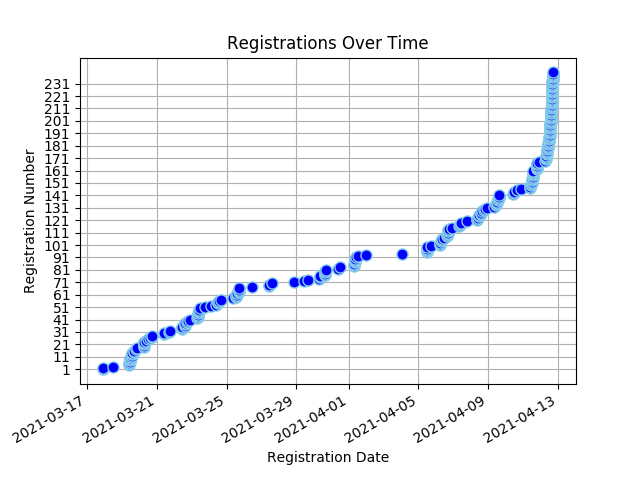
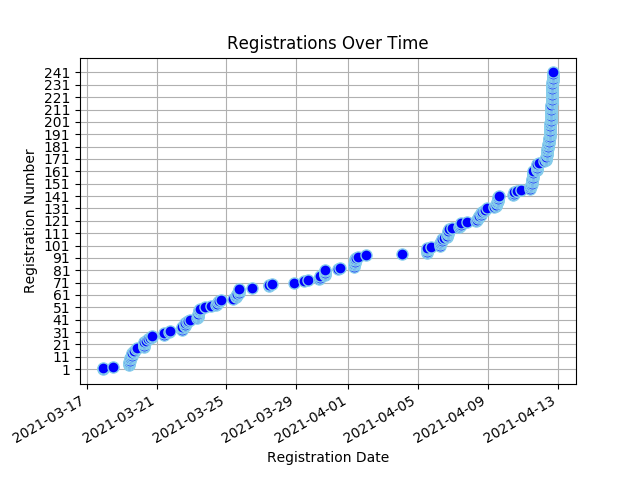
Registree stats backup on Mon 12 Apr 2021 18:22:55 SAST

diff --git a/content/registrees/_index.md b/content/registrees/_index.md
@@ -3,7 +3,7 @@ title: Registration Stats
 draft: false
 ---
 
-<ul><li><strong>Number of Registrees</strong>: 240</li>
+<ul><li><strong>Number of Registrees</strong>: 241</li>
 
 <li><strong>Number of Clubs</strong>: 64</li>
 
@@ -33,6 +33,6 @@ draft: false
         </tr>
     </thead>
     <tbody>
-<tr><td>Natalie Abrahams</td><td>Cape Town</td><td>410W</td></tr><tr><td>Alan Abramsohn</td><td>Milnerton</td><td>410W</td></tr><tr><td>Janine Abramsohn</td><td>Sea Point</td><td>410W</td></tr><tr><td>Rashid Adams</td><td>Athlone</td><td>410W</td></tr><tr><td>Linda Anderson</td><td>George</td><td>410W</td></tr><tr><td>Neale Stewart ANDREWS</td><td>Cowies Hill</td><td>410E</td></tr><tr><td>Linda Baumgarten</td><td>Sea Point</td><td>410W</td></tr><tr><td>Ulrike Behrens</td><td>Windhoek</td><td>410W</td></tr><tr><td>Valencia Beukes-Williams</td><td>Kuilsriver</td><td>410W</td></tr><tr><td>Belinda Blakeman</td><td>North Durban</td><td>410E</td></tr><tr><td>Lyn(ette) Botha</td><td>Cowies Hill</td><td>410E</td></tr><tr><td>JOSE BRAGA BORGES</td><td>Malmesbury</td><td>410W</td></tr><tr><td>Paul Brauteseth</td><td>Port Shepstone</td><td>410E</td></tr><tr><td>Byron Brooker</td><td>Pretoria South</td><td>410E</td></tr><tr><td>Nelle Buhrmann</td><td>Sea Point</td><td>410W</td></tr><tr><td>Christopher Bull</td><td>The Wilds</td><td>410E</td></tr><tr><td>Herman Cadman</td><td>Stellenbosch</td><td>410W</td></tr><tr><td>Artemis Calomiris</td><td>Helderberg</td><td>410W</td></tr><tr><td>Linda Ann Cannone</td><td>Fish Hoek</td><td>410W</td></tr><tr><td>Petrus Carstens</td><td>Worcester</td><td>410W</td></tr><tr><td>Lizelle Castle</td><td>Athlone</td><td>410W</td></tr><tr><td>Sue Charles</td><td>Tokai</td><td>410W</td></tr><tr><td>Lionel Chazen</td><td>Edenvale</td><td>410E</td></tr><tr><td>Perry Chetty</td><td>East Coast</td><td>410E</td></tr><tr><td>Delaney Yeltsin Cloete</td><td>Eden</td><td>410W</td></tr><tr><td>Kate Coppen</td><td>Letaba Tzaneen</td><td>410E</td></tr><tr><td>Esme Cornelius</td><td>Kuilsriver</td><td>410W</td></tr><tr><td>Sharon Cottle</td><td>Groote Schuur</td><td>410W</td></tr><tr><td>Joel d'Offay</td><td>Milnerton</td><td>410W</td></tr><tr><td>Peter Daniel</td><td>Gordons Bay</td><td>410W</td></tr><tr><td>Norma Daniel</td><td>Gordons Bay</td><td>410W</td></tr><tr><td>Engela de Kock</td><td>Swellendam</td><td>410W</td></tr><tr><td>Francois de Kock</td><td>Swellendam</td><td>410W</td></tr><tr><td>Charlotte de Silva</td><td>Edenvale</td><td>410E</td></tr><tr><td>ANDRE DE VILLIERS</td><td>Malgas</td><td>410W</td></tr><tr><td>Lara De Wet</td><td>Edenvale</td><td>410E</td></tr><tr><td>Benita Diener</td><td>Mitchells Plain</td><td>410W</td></tr><tr><td>Peggy Du Plooy</td><td>Krugersdorp</td><td>410E</td></tr><tr><td>Ivan Du Plooy</td><td>Krugersdorp</td><td>410E</td></tr><tr><td>Tammy du Plooy</td><td>Alberton</td><td>410E</td></tr><tr><td>Marc du Plooy</td><td>Alberton</td><td>410E</td></tr><tr><td>Desiree du Toit</td><td>Ramsgate</td><td>410E</td></tr><tr><td>Glynn Easton</td><td>Helderkruin</td><td>410E</td></tr><tr><td>Denise Easton</td><td>Helderkruin</td><td>410E</td></tr><tr><td>Fadia Ely</td><td>Athlone</td><td>410W</td></tr><tr><td>Freddie Erasmus</td><td>Uitenhage</td><td>410E</td></tr><tr><td>Natalie Etridge</td><td>Sedgefield</td><td>410W</td></tr><tr><td>AIDAN Ewers</td><td>Newlands</td><td>410W</td></tr><tr><td>Roger Fahrbach</td><td>Windhoek</td><td>410W</td></tr><tr><td>Beate Fahrbach</td><td>Windhoek</td><td>410W</td></tr><tr><td>Jules Flanagan</td><td>Tokai</td><td>410W</td></tr><tr><td>Charles Flanagan</td><td>Tokai</td><td>410W</td></tr><tr><td>Jéan Fouché</td><td>Worcester</td><td>410W</td></tr><tr><td>Clive Fox</td><td>Merriman</td><td>410W</td></tr><tr><td>Pat Fox</td><td>Merriman</td><td>410W</td></tr><tr><td>Kelvin Foxcroft</td><td>Helderkruin</td><td>410E</td></tr><tr><td>Jenny Foxcroft</td><td>Helderkruin</td><td>410E</td></tr><tr><td>Katherine Foxcroft</td><td>Helderkruin</td><td>410E</td></tr><tr><td>Martin Froise</td><td>Letaba Tzaneen</td><td>410E</td></tr><tr><td>Allison Georges</td><td>Cape Of Good Hope</td><td>410W</td></tr><tr><td>Bernd Gerhard</td><td>Wilro Park</td><td>410E</td></tr><tr><td>Shirley Gerhard</td><td>Wilro Park</td><td>410E</td></tr><tr><td>Valerie Graham</td><td>Nelspruit</td><td>410E</td></tr><tr><td>Mike Graham</td><td>Nelspruit</td><td>410E</td></tr><tr><td>Viv Grater</td><td>Sedgefield</td><td>410W</td></tr><tr><td>Brian Gray</td><td>Durbanville</td><td>410W</td></tr><tr><td>Matty Grobler</td><td>Henties Bay</td><td>410W</td></tr><tr><td>Christiana Groenewoud</td><td>Milnerton</td><td>410W</td></tr><tr><td>Mattheus Groves</td><td>Sedgefield</td><td>410W</td></tr><tr><td>Glyn Gunter</td><td>Malmesbury</td><td>410W</td></tr><tr><td>Barbara Haywood</td><td>Eden</td><td>410W</td></tr><tr><td>Mike Heathcote</td><td>Port Shepstone</td><td>410E</td></tr><tr><td>Zarina Hendricks</td><td>Athlone</td><td>410W</td></tr><tr><td>ELIZABETH Hendriks</td><td>Table View</td><td>410W</td></tr><tr><td>Evelyn Herzfeld</td><td>Edenvale</td><td>410E</td></tr><tr><td>Dorothy Hess</td><td>Kuilsriver</td><td>410W</td></tr><tr><td>Wendy Higgins</td><td>Wilro Park</td><td>410E</td></tr><tr><td>Jacqui Hocking</td><td>Midrand</td><td>410E</td></tr><tr><td>Cliff Hocking</td><td>Midrand</td><td>410E</td></tr><tr><td>Ellen G W Hoffmann</td><td>Windhoek</td><td>410W</td></tr><tr><td>KEITH ALEXANDER HOLLIMAN</td><td>Alberton</td><td>410E</td></tr><tr><td>Liz Houston</td><td>Table View</td><td>410W</td></tr><tr><td>John Houston</td><td>Table View</td><td>410W</td></tr><tr><td>Alna Jackson</td><td>Pretoria Jakaranda</td><td>410E</td></tr><tr><td>Dawid Jacobs</td><td>Durbanville</td><td>410W</td></tr><tr><td>Jean Jacobs</td><td>Mitchells Plain</td><td>410W</td></tr><tr><td>WOLSLEY Jacobson</td><td>Cape Town</td><td>410W</td></tr><tr><td>MALCOLM JOHNSTON</td><td>Standerton</td><td>410E</td></tr><tr><td>Grant Jonathan</td><td>Gordons Bay</td><td>410W</td></tr><tr><td>Faezal Karriem</td><td>Worcester</td><td>410W</td></tr><tr><td>Amanda Kemp</td><td>Milnerton</td><td>410W</td></tr><tr><td>Esmeralda Catherine Kennel</td><td>Newlands</td><td>410W</td></tr><tr><td>Jerome Kern</td><td>Groote Schuur</td><td>410W</td></tr><tr><td>Margie Kienast</td><td>Edenvale</td><td>410E</td></tr><tr><td>Ian King</td><td>Alberton</td><td>410E</td></tr><tr><td>Sandy King</td><td>Alberton</td><td>410E</td></tr><tr><td>Christa Koekemoer</td><td>Letaba Tzaneen</td><td>410E</td></tr><tr><td>Alton Koenze</td><td>Worcester</td><td>410W</td></tr><tr><td>Muya Koloko</td><td>Durbanville</td><td>410W</td></tr><tr><td>Zwaai Kruger</td><td>Sedgefield</td><td>410W</td></tr><tr><td>Natalie Laas</td><td>Alberton</td><td>410E</td></tr><tr><td>Bevil Lakay</td><td>Mitchells Plain</td><td>410W</td></tr><tr><td>Paula Lang</td><td>Gordons Bay</td><td>410W</td></tr><tr><td>Jimmy Lang</td><td>Gordons Bay</td><td>410W</td></tr><tr><td>Herman Laubscher</td><td>Ceres</td><td>410W</td></tr><tr><td>Steven Lautenbach</td><td>Pretoria South</td><td>410E</td></tr><tr><td>Jeanette le Roux</td><td>Gonubie</td><td>410E</td></tr><tr><td>Heather Lee</td><td>Cape Of Good Hope</td><td>410W</td></tr><tr><td>Erika Louw</td><td>Durbanville</td><td>410W</td></tr><tr><td>Dee Love</td><td>Cowies Hill</td><td>410E</td></tr><tr><td>Rashmiya Lucas</td><td>Mitchells Plain</td><td>410W</td></tr><tr><td>Zarina Luck</td><td>Newcastle</td><td>410E</td></tr><tr><td>Pam MacRobert</td><td>Groote Schuur</td><td>410W</td></tr><tr><td>Sharon Mangwende</td><td>Cape Town</td><td>410W</td></tr><tr><td>Richard MARCHANT</td><td>The Wilds</td><td>410E</td></tr><tr><td>Beaulieu Mare</td><td>Benoni Lakes</td><td>410E</td></tr><tr><td>Nick Maré</td><td>Benoni Lakes</td><td>410E</td></tr><tr><td>Jean Masson</td><td>Port Shepstone</td><td>410E</td></tr><tr><td>LANCE MAYTHAM</td><td>Swellendam</td><td>410W</td></tr><tr><td>ROSEMARIE MAYTHAM</td><td>Swellendam</td><td>410W</td></tr><tr><td>David Mccullough</td><td>Pretoria South</td><td>410E</td></tr><tr><td>Rochelle McDonald</td><td>Vereeniging</td><td>410E</td></tr><tr><td>Alec McKerrow</td><td>Port Alfred</td><td>410E</td></tr><tr><td>Stuart McPherson</td><td>Newlands</td><td>410W</td></tr><tr><td>Mark Meltzer</td><td>The Wilds</td><td>410E</td></tr><tr><td>Elisa Metz</td><td>Milnerton</td><td>410W</td></tr><tr><td>Denis Meyer</td><td>Port Shepstone</td><td>410E</td></tr><tr><td>Roy Michas</td><td>Midrand</td><td>410E</td></tr><tr><td>Dawn Michas</td><td>Midrand</td><td>410E</td></tr><tr><td>BERNICE MILLS</td><td>Centurion</td><td>410E</td></tr><tr><td>Patrick Mills</td><td>Centurion</td><td>410E</td></tr><tr><td>Cherie Milosevich</td><td>Milnerton</td><td>410W</td></tr><tr><td>Alana Mitchell</td><td>Rustenburg</td><td>410E</td></tr><tr><td>Juan Mitchell</td><td>Rustenburg</td><td>410E</td></tr><tr><td>Virginia Mkhize</td><td>Cape Town</td><td>410W</td></tr><tr><td>Frauke E. Moeller</td><td>Windhoek</td><td>410W</td></tr><tr><td>Bernadine Moses</td><td>Cape Town</td><td>410W</td></tr><tr><td>Jacques Mostert</td><td>Merriman</td><td>410W</td></tr><tr><td>Suzanne Murray</td><td>Vereeniging</td><td>410E</td></tr><tr><td>Gary Murray</td><td>Vereeniging</td><td>410E</td></tr><tr><td>Pieter Myburg</td><td>Wellington</td><td>410W</td></tr><tr><td>Cornette Naude</td><td>Letaba Tzaneen</td><td>410E</td></tr><tr><td>Pieter Nel</td><td>George</td><td>410W</td></tr><tr><td>Tillie Nel</td><td>Eden</td><td>410W</td></tr><tr><td>Mike Newlands</td><td>Port Alfred</td><td>410E</td></tr><tr><td>Angela Niehaus</td><td>Bergvliet</td><td>410W</td></tr><tr><td>Rachel Nortjie</td><td>Mitchells Plain</td><td>410W</td></tr><tr><td>PDG Bokkie Oberholzer</td><td>Uitenhage</td><td>410E</td></tr><tr><td>Chris Ocker</td><td>Fish Hoek</td><td>410W</td></tr><tr><td>Jenny Ocker</td><td>Fish Hoek</td><td>410W</td></tr><tr><td>Debra Olivier</td><td>Sedgefield</td><td>410W</td></tr><tr><td>Isabella Stratton Ormandy</td><td>Milnerton</td><td>410W</td></tr><tr><td>Teresa Pantoleon</td><td>Vereeniging</td><td>410E</td></tr><tr><td>Maureen Peters</td><td>Ceres</td><td>410W</td></tr><tr><td>Sundru Pillay</td><td>Durbanville</td><td>410W</td></tr><tr><td>Patrick Pillay</td><td>Tygerberg Hills</td><td>410W</td></tr><tr><td>Tracey Polkinghorne</td><td>Kensington</td><td>410E</td></tr><tr><td>Gavin Polkinghorne</td><td>Kensington</td><td>410E</td></tr><tr><td>BRIAN PORTEOUS</td><td>Hibberdene</td><td>410E</td></tr><tr><td>Mary-Anne Ras</td><td>Swellendam</td><td>410W</td></tr><tr><td>Leon Jacobus Ras</td><td>Swellendam</td><td>410E</td></tr><tr><td>Hugo Reniers</td><td>Nelspruit</td><td>410E</td></tr><tr><td>Sandy Roman</td><td>Bergvliet</td><td>410W</td></tr><tr><td>Mark Rossouw</td><td>Tokai</td><td>410W</td></tr><tr><td>Anthonie Petrus Roux</td><td>Moorreesburg</td><td>410W</td></tr><tr><td>Ingrid Russell</td><td>Fish Hoek</td><td>410W</td></tr><tr><td>Rodney Sabatier</td><td>Letaba Tzaneen</td><td>410E</td></tr><tr><td>Sharon Sampie</td><td>Bergvliet</td><td>410W</td></tr><tr><td>Vera Schatz</td><td>Windhoek</td><td>410W</td></tr><tr><td>Frank Schatz</td><td>Windhoek</td><td>410W</td></tr><tr><td>Francis Searle</td><td>Kouga</td><td>410E</td></tr><tr><td>Gloria Searle</td><td>Kouga</td><td>410E</td></tr><tr><td>Ami Sell</td><td>Windhoek</td><td>410W</td></tr><tr><td>Beryl Simpson</td><td>Cape Town</td><td>410W</td></tr><tr><td>Kenlis Sircoulomb</td><td>Windhoek</td><td>410W</td></tr><tr><td>Holger Sircoulomb</td><td>Windhoek</td><td>410W</td></tr><tr><td>Hennie Smeer</td><td>Windhoek</td><td>410W</td></tr><tr><td>Sue Smit</td><td>Centurion</td><td>410E</td></tr><tr><td>Herman Smit</td><td>Swellendam</td><td>410W</td></tr><tr><td>Santie Smit</td><td>Durbanville</td><td>410W</td></tr><tr><td>Jeff Smith</td><td>Port Shepstone</td><td>410E</td></tr><tr><td>Bennie Smith</td><td>Wellington</td><td>410W</td></tr><tr><td>Carmen Dolores Smith</td><td>Tokai</td><td>410W</td></tr><tr><td>David John Smith</td><td>Tokai</td><td>410W</td></tr><tr><td>LYN SNYMAN</td><td>Deep South</td><td>410W</td></tr><tr><td>Diana Sochen</td><td>Sea Point</td><td>410W</td></tr><tr><td>Max Stander</td><td>Port Alfred</td><td>410E</td></tr><tr><td>Ashley Stander</td><td>Krugersdorp</td><td>410E</td></tr><tr><td>Brett Jason Stander</td><td>Krugersdorp</td><td>410E</td></tr><tr><td>TIM STEENBERG</td><td>Wellington</td><td>410W</td></tr><tr><td>RORY stier</td><td>Deep South</td><td>410W</td></tr><tr><td>Patrick Strauss</td><td>Kuilsriver</td><td>410W</td></tr><tr><td>Lauryn Talbot</td><td>Benoni Lakes</td><td>410E</td></tr><tr><td>Margaret Thackwell</td><td>Table View</td><td>410W</td></tr><tr><td>Pierre Theron</td><td>Midrand</td><td>410E</td></tr><tr><td>Moira Theron</td><td>Midrand</td><td>410E</td></tr><tr><td>Diane Townsend</td><td>Benoni Lakes</td><td>410E</td></tr><tr><td>David Alex Tshikala</td><td>Athlone</td><td>410W</td></tr><tr><td>Alistair Tuckett</td><td>Roodepoort Clearwater Cyber</td><td>410E</td></tr><tr><td>Rowan Tuckett</td><td>Roodepoort Clearwater Cyber</td><td>410E</td></tr><tr><td>Gail Tuckett</td><td>Roodepoort Clearwater Cyber</td><td>410E</td></tr><tr><td>Jiri Uchytil</td><td>Alberton</td><td>410E</td></tr><tr><td>Tracy Valadao</td><td>Midrand</td><td>410E</td></tr><tr><td>Carl van Blerk</td><td>Eden</td><td>410W</td></tr><tr><td>HILARY LISE VAN BREDA</td><td>Cape Town</td><td>410W</td></tr><tr><td>Marina Van de Merwe</td><td>Malmesbury</td><td>410W</td></tr><tr><td>Ingrid van der Merwe</td><td>Letaba Tzaneen</td><td>410E</td></tr><tr><td>PATRICIA VAN DER MERWE</td><td>East London Port Rex</td><td>410E</td></tr><tr><td>MARINA VAN DER MERWE</td><td>Malmesbury</td><td>410W</td></tr><tr><td>Hennie van der Westhuizen</td><td>Helderberg</td><td>410W</td></tr><tr><td>Sydney van Heerden</td><td>Wilro Park</td><td>410E</td></tr><tr><td>Sandy van Heerden</td><td>Wilro Park</td><td>410E</td></tr><tr><td>Craig van Heerden</td><td>East London Beacon Bay</td><td>410E</td></tr><tr><td>Mark van Heerden</td><td>Pretoria South</td><td>410E</td></tr><tr><td>Neville Van Rensburg</td><td>Moorreesburg</td><td>410W</td></tr><tr><td>Johan van Rensburg</td><td>Windhoek</td><td>410W</td></tr><tr><td>Anne van Rensburg</td><td>Windhoek</td><td>410W</td></tr><tr><td>Jeannie van Wulven</td><td>Tygerberg Hills</td><td>410W</td></tr><tr><td>Alan van Wulven</td><td>Tygerberg Hills</td><td>410W</td></tr><tr><td>Deon van Wulven</td><td>Tygerberg Hills</td><td>410W</td></tr><tr><td>Kim van Wyk</td><td>North Durban</td><td>410E</td></tr><tr><td>Lindie van Wyk</td><td>Pretoria Jakaranda</td><td>410E</td></tr><tr><td>Willem van Wyk</td><td>Midrand</td><td>410E</td></tr><tr><td>Patricia van Wyk</td><td>Pretoria Jakaranda</td><td>410E</td></tr><tr><td>Edith Van Wyk-Nelson</td><td>Kuilsriver</td><td>410W</td></tr><tr><td>Louis Venter</td><td>Letaba Tzaneen</td><td>410E</td></tr><tr><td>Russell Volker</td><td>King William's Town</td><td>410E</td></tr><tr><td>Brian von der Decken</td><td>King William's Town</td><td>410E</td></tr><tr><td>Rinette Von Mollendorf</td><td>Durbanville</td><td>410W</td></tr><tr><td>Rochelle Vorster</td><td>Sedgefield</td><td>410W</td></tr><tr><td>Alastair Warman</td><td>Port Shepstone</td><td>410E</td></tr><tr><td>Allan Watson</td><td>Sea Point</td><td>410W</td></tr><tr><td>Alison Watson</td><td>Sedgefield</td><td>410W</td></tr><tr><td>Johanna Williams</td><td>Mitchells Plain</td><td>410W</td></tr><tr><td>Neville Williamson</td><td>Port Alfred</td><td>410E</td></tr><tr><td>Geila Wills</td><td>Athlone</td><td>410W</td></tr><tr><td>Joan Woodman</td><td>Mitchells Plain</td><td>410W</td></tr><tr><td>Rocky Wright</td><td>Table View</td><td>410W</td></tr><tr><td>Judy Young</td><td>Durbanville</td><td>410W</td></tr><tr><td>Leonie Zucker</td><td>Milnerton</td><td>410W</td></tr>
+<tr><td>Natalie Abrahams</td><td>Cape Town</td><td>410W</td></tr><tr><td>Alan Abramsohn</td><td>Milnerton</td><td>410W</td></tr><tr><td>Janine Abramsohn</td><td>Sea Point</td><td>410W</td></tr><tr><td>Rashid Adams</td><td>Athlone</td><td>410W</td></tr><tr><td>Linda Anderson</td><td>George</td><td>410W</td></tr><tr><td>Neale Stewart ANDREWS</td><td>Cowies Hill</td><td>410E</td></tr><tr><td>Linda Baumgarten</td><td>Sea Point</td><td>410W</td></tr><tr><td>Ulrike Behrens</td><td>Windhoek</td><td>410W</td></tr><tr><td>Valencia Beukes-Williams</td><td>Kuilsriver</td><td>410W</td></tr><tr><td>Belinda Blakeman</td><td>North Durban</td><td>410E</td></tr><tr><td>Lyn(ette) Botha</td><td>Cowies Hill</td><td>410E</td></tr><tr><td>JOSE BRAGA BORGES</td><td>Malmesbury</td><td>410W</td></tr><tr><td>Paul Brauteseth</td><td>Port Shepstone</td><td>410E</td></tr><tr><td>Byron Brooker</td><td>Pretoria South</td><td>410E</td></tr><tr><td>Nelle Buhrmann</td><td>Sea Point</td><td>410W</td></tr><tr><td>Christopher Bull</td><td>The Wilds</td><td>410E</td></tr><tr><td>Herman Cadman</td><td>Stellenbosch</td><td>410W</td></tr><tr><td>Artemis Calomiris</td><td>Helderberg</td><td>410W</td></tr><tr><td>Linda Ann Cannone</td><td>Fish Hoek</td><td>410W</td></tr><tr><td>Petrus Carstens</td><td>Worcester</td><td>410W</td></tr><tr><td>Lizelle Castle</td><td>Athlone</td><td>410W</td></tr><tr><td>Sue Charles</td><td>Tokai</td><td>410W</td></tr><tr><td>Lionel Chazen</td><td>Edenvale</td><td>410E</td></tr><tr><td>Perry Chetty</td><td>East Coast</td><td>410E</td></tr><tr><td>Delaney Yeltsin Cloete</td><td>Eden</td><td>410W</td></tr><tr><td>Kate Coppen</td><td>Letaba Tzaneen</td><td>410E</td></tr><tr><td>Esme Cornelius</td><td>Kuilsriver</td><td>410W</td></tr><tr><td>Sharon Cottle</td><td>Groote Schuur</td><td>410W</td></tr><tr><td>Joel d'Offay</td><td>Milnerton</td><td>410W</td></tr><tr><td>Peter Daniel</td><td>Gordons Bay</td><td>410W</td></tr><tr><td>Norma Daniel</td><td>Gordons Bay</td><td>410W</td></tr><tr><td>Engela de Kock</td><td>Swellendam</td><td>410W</td></tr><tr><td>Francois de Kock</td><td>Swellendam</td><td>410W</td></tr><tr><td>Charlotte de Silva</td><td>Edenvale</td><td>410E</td></tr><tr><td>ANDRE DE VILLIERS</td><td>Malgas</td><td>410W</td></tr><tr><td>Lara De Wet</td><td>Edenvale</td><td>410E</td></tr><tr><td>Benita Diener</td><td>Mitchells Plain</td><td>410W</td></tr><tr><td>Peggy Du Plooy</td><td>Krugersdorp</td><td>410E</td></tr><tr><td>Ivan Du Plooy</td><td>Krugersdorp</td><td>410E</td></tr><tr><td>Tammy du Plooy</td><td>Alberton</td><td>410E</td></tr><tr><td>Marc du Plooy</td><td>Alberton</td><td>410E</td></tr><tr><td>Desiree du Toit</td><td>Ramsgate</td><td>410E</td></tr><tr><td>Glynn Easton</td><td>Helderkruin</td><td>410E</td></tr><tr><td>Denise Easton</td><td>Helderkruin</td><td>410E</td></tr><tr><td>Fadia Ely</td><td>Athlone</td><td>410W</td></tr><tr><td>Freddie Erasmus</td><td>Uitenhage</td><td>410E</td></tr><tr><td>Natalie Etridge</td><td>Sedgefield</td><td>410W</td></tr><tr><td>AIDAN Ewers</td><td>Newlands</td><td>410W</td></tr><tr><td>Roger Fahrbach</td><td>Windhoek</td><td>410W</td></tr><tr><td>Beate Fahrbach</td><td>Windhoek</td><td>410W</td></tr><tr><td>Jules Flanagan</td><td>Tokai</td><td>410W</td></tr><tr><td>Charles Flanagan</td><td>Tokai</td><td>410W</td></tr><tr><td>Jéan Fouché</td><td>Worcester</td><td>410W</td></tr><tr><td>Clive Fox</td><td>Merriman</td><td>410W</td></tr><tr><td>Pat Fox</td><td>Merriman</td><td>410W</td></tr><tr><td>Kelvin Foxcroft</td><td>Helderkruin</td><td>410E</td></tr><tr><td>Jenny Foxcroft</td><td>Helderkruin</td><td>410E</td></tr><tr><td>Katherine Foxcroft</td><td>Helderkruin</td><td>410E</td></tr><tr><td>Martin Froise</td><td>Letaba Tzaneen</td><td>410E</td></tr><tr><td>Allison Georges</td><td>Cape Of Good Hope</td><td>410W</td></tr><tr><td>Bernd Gerhard</td><td>Wilro Park</td><td>410E</td></tr><tr><td>Shirley Gerhard</td><td>Wilro Park</td><td>410E</td></tr><tr><td>Valerie Graham</td><td>Nelspruit</td><td>410E</td></tr><tr><td>Mike Graham</td><td>Nelspruit</td><td>410E</td></tr><tr><td>Viv Grater</td><td>Sedgefield</td><td>410W</td></tr><tr><td>Brian Gray</td><td>Durbanville</td><td>410W</td></tr><tr><td>Matty Grobler</td><td>Henties Bay</td><td>410W</td></tr><tr><td>Christiana Groenewoud</td><td>Milnerton</td><td>410W</td></tr><tr><td>Mattheus Groves</td><td>Sedgefield</td><td>410W</td></tr><tr><td>Glyn Gunter</td><td>Malmesbury</td><td>410W</td></tr><tr><td>Barbara Haywood</td><td>Eden</td><td>410W</td></tr><tr><td>Mike Heathcote</td><td>Port Shepstone</td><td>410E</td></tr><tr><td>Zarina Hendricks</td><td>Athlone</td><td>410W</td></tr><tr><td>ELIZABETH Hendriks</td><td>Table View</td><td>410W</td></tr><tr><td>MBULELO HERMANUS</td><td>Alberton</td><td>410E</td></tr><tr><td>Evelyn Herzfeld</td><td>Edenvale</td><td>410E</td></tr><tr><td>Dorothy Hess</td><td>Kuilsriver</td><td>410W</td></tr><tr><td>Wendy Higgins</td><td>Wilro Park</td><td>410E</td></tr><tr><td>Jacqui Hocking</td><td>Midrand</td><td>410E</td></tr><tr><td>Cliff Hocking</td><td>Midrand</td><td>410E</td></tr><tr><td>Ellen G W Hoffmann</td><td>Windhoek</td><td>410W</td></tr><tr><td>KEITH ALEXANDER HOLLIMAN</td><td>Alberton</td><td>410E</td></tr><tr><td>Liz Houston</td><td>Table View</td><td>410W</td></tr><tr><td>John Houston</td><td>Table View</td><td>410W</td></tr><tr><td>Alna Jackson</td><td>Pretoria Jakaranda</td><td>410E</td></tr><tr><td>Dawid Jacobs</td><td>Durbanville</td><td>410W</td></tr><tr><td>Jean Jacobs</td><td>Mitchells Plain</td><td>410W</td></tr><tr><td>WOLSLEY Jacobson</td><td>Cape Town</td><td>410W</td></tr><tr><td>MALCOLM JOHNSTON</td><td>Standerton</td><td>410E</td></tr><tr><td>Grant Jonathan</td><td>Gordons Bay</td><td>410W</td></tr><tr><td>Faezal Karriem</td><td>Worcester</td><td>410W</td></tr><tr><td>Amanda Kemp</td><td>Milnerton</td><td>410W</td></tr><tr><td>Esmeralda Catherine Kennel</td><td>Newlands</td><td>410W</td></tr><tr><td>Jerome Kern</td><td>Groote Schuur</td><td>410W</td></tr><tr><td>Margie Kienast</td><td>Edenvale</td><td>410E</td></tr><tr><td>Ian King</td><td>Alberton</td><td>410E</td></tr><tr><td>Sandy King</td><td>Alberton</td><td>410E</td></tr><tr><td>Christa Koekemoer</td><td>Letaba Tzaneen</td><td>410E</td></tr><tr><td>Alton Koenze</td><td>Worcester</td><td>410W</td></tr><tr><td>Muya Koloko</td><td>Durbanville</td><td>410W</td></tr><tr><td>Zwaai Kruger</td><td>Sedgefield</td><td>410W</td></tr><tr><td>Natalie Laas</td><td>Alberton</td><td>410E</td></tr><tr><td>Bevil Lakay</td><td>Mitchells Plain</td><td>410W</td></tr><tr><td>Paula Lang</td><td>Gordons Bay</td><td>410W</td></tr><tr><td>Jimmy Lang</td><td>Gordons Bay</td><td>410W</td></tr><tr><td>Herman Laubscher</td><td>Ceres</td><td>410W</td></tr><tr><td>Steven Lautenbach</td><td>Pretoria South</td><td>410E</td></tr><tr><td>Jeanette le Roux</td><td>Gonubie</td><td>410E</td></tr><tr><td>Heather Lee</td><td>Cape Of Good Hope</td><td>410W</td></tr><tr><td>Erika Louw</td><td>Durbanville</td><td>410W</td></tr><tr><td>Dee Love</td><td>Cowies Hill</td><td>410E</td></tr><tr><td>Rashmiya Lucas</td><td>Mitchells Plain</td><td>410W</td></tr><tr><td>Zarina Luck</td><td>Newcastle</td><td>410E</td></tr><tr><td>Pam MacRobert</td><td>Groote Schuur</td><td>410W</td></tr><tr><td>Sharon Mangwende</td><td>Cape Town</td><td>410W</td></tr><tr><td>Richard MARCHANT</td><td>The Wilds</td><td>410E</td></tr><tr><td>Beaulieu Mare</td><td>Benoni Lakes</td><td>410E</td></tr><tr><td>Nick Maré</td><td>Benoni Lakes</td><td>410E</td></tr><tr><td>Jean Masson</td><td>Port Shepstone</td><td>410E</td></tr><tr><td>LANCE MAYTHAM</td><td>Swellendam</td><td>410W</td></tr><tr><td>ROSEMARIE MAYTHAM</td><td>Swellendam</td><td>410W</td></tr><tr><td>David Mccullough</td><td>Pretoria South</td><td>410E</td></tr><tr><td>Rochelle McDonald</td><td>Vereeniging</td><td>410E</td></tr><tr><td>Alec McKerrow</td><td>Port Alfred</td><td>410E</td></tr><tr><td>Stuart McPherson</td><td>Newlands</td><td>410W</td></tr><tr><td>Mark Meltzer</td><td>The Wilds</td><td>410E</td></tr><tr><td>Elisa Metz</td><td>Milnerton</td><td>410W</td></tr><tr><td>Denis Meyer</td><td>Port Shepstone</td><td>410E</td></tr><tr><td>Roy Michas</td><td>Midrand</td><td>410E</td></tr><tr><td>Dawn Michas</td><td>Midrand</td><td>410E</td></tr><tr><td>BERNICE MILLS</td><td>Centurion</td><td>410E</td></tr><tr><td>Patrick Mills</td><td>Centurion</td><td>410E</td></tr><tr><td>Cherie Milosevich</td><td>Milnerton</td><td>410W</td></tr><tr><td>Alana Mitchell</td><td>Rustenburg</td><td>410E</td></tr><tr><td>Juan Mitchell</td><td>Rustenburg</td><td>410E</td></tr><tr><td>Virginia Mkhize</td><td>Cape Town</td><td>410W</td></tr><tr><td>Frauke E. Moeller</td><td>Windhoek</td><td>410W</td></tr><tr><td>Bernadine Moses</td><td>Cape Town</td><td>410W</td></tr><tr><td>Jacques Mostert</td><td>Merriman</td><td>410W</td></tr><tr><td>Suzanne Murray</td><td>Vereeniging</td><td>410E</td></tr><tr><td>Gary Murray</td><td>Vereeniging</td><td>410E</td></tr><tr><td>Pieter Myburg</td><td>Wellington</td><td>410W</td></tr><tr><td>Cornette Naude</td><td>Letaba Tzaneen</td><td>410E</td></tr><tr><td>Pieter Nel</td><td>George</td><td>410W</td></tr><tr><td>Tillie Nel</td><td>Eden</td><td>410W</td></tr><tr><td>Mike Newlands</td><td>Port Alfred</td><td>410E</td></tr><tr><td>Angela Niehaus</td><td>Bergvliet</td><td>410W</td></tr><tr><td>Rachel Nortjie</td><td>Mitchells Plain</td><td>410W</td></tr><tr><td>PDG Bokkie Oberholzer</td><td>Uitenhage</td><td>410E</td></tr><tr><td>Chris Ocker</td><td>Fish Hoek</td><td>410W</td></tr><tr><td>Jenny Ocker</td><td>Fish Hoek</td><td>410W</td></tr><tr><td>Debra Olivier</td><td>Sedgefield</td><td>410W</td></tr><tr><td>Isabella Stratton Ormandy</td><td>Milnerton</td><td>410W</td></tr><tr><td>Teresa Pantoleon</td><td>Vereeniging</td><td>410E</td></tr><tr><td>Maureen Peters</td><td>Ceres</td><td>410W</td></tr><tr><td>Sundru Pillay</td><td>Durbanville</td><td>410W</td></tr><tr><td>Patrick Pillay</td><td>Tygerberg Hills</td><td>410W</td></tr><tr><td>Tracey Polkinghorne</td><td>Kensington</td><td>410E</td></tr><tr><td>Gavin Polkinghorne</td><td>Kensington</td><td>410E</td></tr><tr><td>BRIAN PORTEOUS</td><td>Hibberdene</td><td>410E</td></tr><tr><td>Mary-Anne Ras</td><td>Swellendam</td><td>410W</td></tr><tr><td>Leon Jacobus Ras</td><td>Swellendam</td><td>410E</td></tr><tr><td>Hugo Reniers</td><td>Nelspruit</td><td>410E</td></tr><tr><td>Sandy Roman</td><td>Bergvliet</td><td>410W</td></tr><tr><td>Mark Rossouw</td><td>Tokai</td><td>410W</td></tr><tr><td>Anthonie Petrus Roux</td><td>Moorreesburg</td><td>410W</td></tr><tr><td>Ingrid Russell</td><td>Fish Hoek</td><td>410W</td></tr><tr><td>Rodney Sabatier</td><td>Letaba Tzaneen</td><td>410E</td></tr><tr><td>Sharon Sampie</td><td>Bergvliet</td><td>410W</td></tr><tr><td>Vera Schatz</td><td>Windhoek</td><td>410W</td></tr><tr><td>Frank Schatz</td><td>Windhoek</td><td>410W</td></tr><tr><td>Francis Searle</td><td>Kouga</td><td>410E</td></tr><tr><td>Gloria Searle</td><td>Kouga</td><td>410E</td></tr><tr><td>Ami Sell</td><td>Windhoek</td><td>410W</td></tr><tr><td>Beryl Simpson</td><td>Cape Town</td><td>410W</td></tr><tr><td>Kenlis Sircoulomb</td><td>Windhoek</td><td>410W</td></tr><tr><td>Holger Sircoulomb</td><td>Windhoek</td><td>410W</td></tr><tr><td>Hennie Smeer</td><td>Windhoek</td><td>410W</td></tr><tr><td>Sue Smit</td><td>Centurion</td><td>410E</td></tr><tr><td>Herman Smit</td><td>Swellendam</td><td>410W</td></tr><tr><td>Santie Smit</td><td>Durbanville</td><td>410W</td></tr><tr><td>Jeff Smith</td><td>Port Shepstone</td><td>410E</td></tr><tr><td>Bennie Smith</td><td>Wellington</td><td>410W</td></tr><tr><td>Carmen Dolores Smith</td><td>Tokai</td><td>410W</td></tr><tr><td>David John Smith</td><td>Tokai</td><td>410W</td></tr><tr><td>LYN SNYMAN</td><td>Deep South</td><td>410W</td></tr><tr><td>Diana Sochen</td><td>Sea Point</td><td>410W</td></tr><tr><td>Max Stander</td><td>Port Alfred</td><td>410E</td></tr><tr><td>Ashley Stander</td><td>Krugersdorp</td><td>410E</td></tr><tr><td>Brett Jason Stander</td><td>Krugersdorp</td><td>410E</td></tr><tr><td>TIM STEENBERG</td><td>Wellington</td><td>410W</td></tr><tr><td>RORY stier</td><td>Deep South</td><td>410W</td></tr><tr><td>Patrick Strauss</td><td>Kuilsriver</td><td>410W</td></tr><tr><td>Lauryn Talbot</td><td>Benoni Lakes</td><td>410E</td></tr><tr><td>Margaret Thackwell</td><td>Table View</td><td>410W</td></tr><tr><td>Pierre Theron</td><td>Midrand</td><td>410E</td></tr><tr><td>Moira Theron</td><td>Midrand</td><td>410E</td></tr><tr><td>Diane Townsend</td><td>Benoni Lakes</td><td>410E</td></tr><tr><td>David Alex Tshikala</td><td>Athlone</td><td>410W</td></tr><tr><td>Alistair Tuckett</td><td>Roodepoort Clearwater Cyber</td><td>410E</td></tr><tr><td>Rowan Tuckett</td><td>Roodepoort Clearwater Cyber</td><td>410E</td></tr><tr><td>Gail Tuckett</td><td>Roodepoort Clearwater Cyber</td><td>410E</td></tr><tr><td>Jiri Uchytil</td><td>Alberton</td><td>410E</td></tr><tr><td>Tracy Valadao</td><td>Midrand</td><td>410E</td></tr><tr><td>Carl van Blerk</td><td>Eden</td><td>410W</td></tr><tr><td>HILARY LISE VAN BREDA</td><td>Cape Town</td><td>410W</td></tr><tr><td>Marina Van de Merwe</td><td>Malmesbury</td><td>410W</td></tr><tr><td>Ingrid van der Merwe</td><td>Letaba Tzaneen</td><td>410E</td></tr><tr><td>PATRICIA VAN DER MERWE</td><td>East London Port Rex</td><td>410E</td></tr><tr><td>MARINA VAN DER MERWE</td><td>Malmesbury</td><td>410W</td></tr><tr><td>Hennie van der Westhuizen</td><td>Helderberg</td><td>410W</td></tr><tr><td>Sydney van Heerden</td><td>Wilro Park</td><td>410E</td></tr><tr><td>Sandy van Heerden</td><td>Wilro Park</td><td>410E</td></tr><tr><td>Craig van Heerden</td><td>East London Beacon Bay</td><td>410E</td></tr><tr><td>Mark van Heerden</td><td>Pretoria South</td><td>410E</td></tr><tr><td>Neville Van Rensburg</td><td>Moorreesburg</td><td>410W</td></tr><tr><td>Johan van Rensburg</td><td>Windhoek</td><td>410W</td></tr><tr><td>Anne van Rensburg</td><td>Windhoek</td><td>410W</td></tr><tr><td>Jeannie van Wulven</td><td>Tygerberg Hills</td><td>410W</td></tr><tr><td>Alan van Wulven</td><td>Tygerberg Hills</td><td>410W</td></tr><tr><td>Deon van Wulven</td><td>Tygerberg Hills</td><td>410W</td></tr><tr><td>Kim van Wyk</td><td>North Durban</td><td>410E</td></tr><tr><td>Lindie van Wyk</td><td>Pretoria Jakaranda</td><td>410E</td></tr><tr><td>Willem van Wyk</td><td>Midrand</td><td>410E</td></tr><tr><td>Patricia van Wyk</td><td>Pretoria Jakaranda</td><td>410E</td></tr><tr><td>Edith Van Wyk-Nelson</td><td>Kuilsriver</td><td>410W</td></tr><tr><td>Louis Venter</td><td>Letaba Tzaneen</td><td>410E</td></tr><tr><td>Russell Volker</td><td>King William's Town</td><td>410E</td></tr><tr><td>Brian von der Decken</td><td>King William's Town</td><td>410E</td></tr><tr><td>Rinette Von Mollendorf</td><td>Durbanville</td><td>410W</td></tr><tr><td>Rochelle Vorster</td><td>Sedgefield</td><td>410W</td></tr><tr><td>Alastair Warman</td><td>Port Shepstone</td><td>410E</td></tr><tr><td>Allan Watson</td><td>Sea Point</td><td>410W</td></tr><tr><td>Alison Watson</td><td>Sedgefield</td><td>410W</td></tr><tr><td>Johanna Williams</td><td>Mitchells Plain</td><td>410W</td></tr><tr><td>Neville Williamson</td><td>Port Alfred</td><td>410E</td></tr><tr><td>Geila Wills</td><td>Athlone</td><td>410W</td></tr><tr><td>Joan Woodman</td><td>Mitchells Plain</td><td>410W</td></tr><tr><td>Rocky Wright</td><td>Table View</td><td>410W</td></tr><tr><td>Judy Young</td><td>Durbanville</td><td>410W</td></tr><tr><td>Leonie Zucker</td><td>Milnerton</td><td>410W</td></tr>
 </tbody>
 </table>

diff --git a/content/full_stats/_index.md b/content/full_stats/_index.md
@@ -17,14 +17,14 @@ draft: false
 <body>
 <h1 style="color: #000000;">Full Registration Stats</h1>
 <a href="/docs/registrees_list.xlsx">Download Registrees Excel File</a>
-<ul><li><strong>Number of Registrees</strong>: 240</li>
+<ul><li><strong>Number of Registrees</strong>: 241</li>
 <li><strong>Number of Clubs</strong>: 64</li>
 <li><strong>Club With Most Attendees</strong>: Windhoek (13 registrees)</li>
 
 <li><strong>Number of District 410W Convention Attendees</strong>: 129</li>
 <li><strong>Number of District 410W Convention Voters</strong>: 62</li>
-<li><strong>Number of District 410E Convention Attendees</strong>: 96</li>
-<li><strong>Number of District 410E Convention Voters</strong>: 52</li>
+<li><strong>Number of District 410E Convention Attendees</strong>: 97</li>
+<li><strong>Number of District 410E Convention Voters</strong>: 53</li>
 
 <li><strong>Number of MD410 Convention Attendees</strong>: 199</li>
 <li><strong>Number of MD410 Convention Voters</strong>: 101</li>
@@ -872,6 +872,17 @@ draft: false
 <td>No</td>
 <td style="background-color: lightgreen">Yes</td>
 <td style="background-color: lightgreen">Yes</td>
+<td style="background-color: lightgreen">Yes</td>
+</tr>
+
+    
+<td>270</td>
+<td>MBULELO HERMANUS</td>
+<td>Alberton</td>
+<td>410E</td>
+<td style="background-color: lightgreen">Yes</td>
+<td style="background-color: lightgreen">Yes</td>
+<td>No</td>
 <td style="background-color: lightgreen">Yes</td>
 </tr>
 
